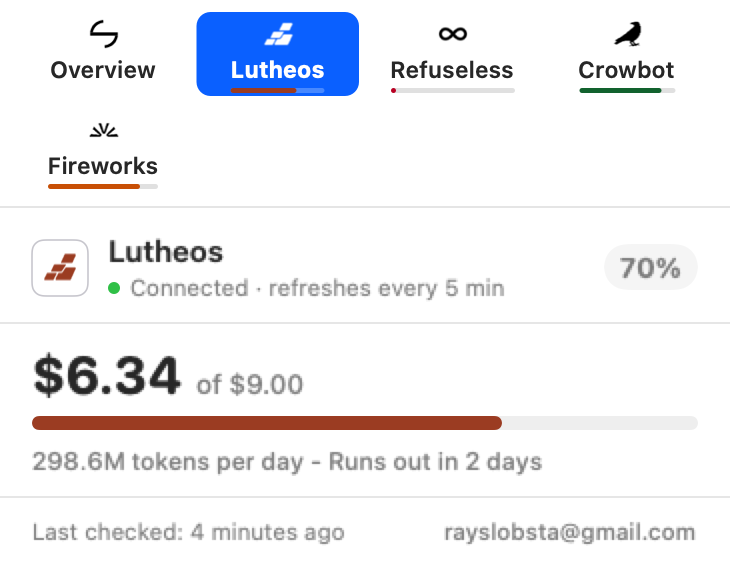
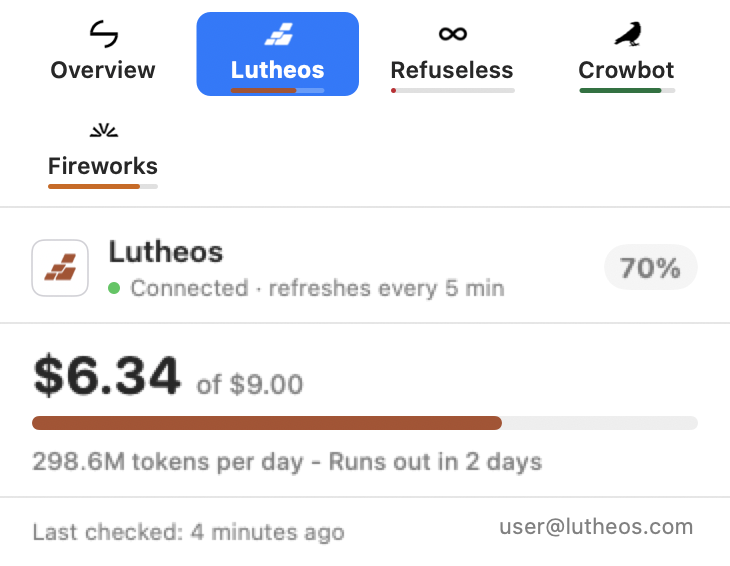
docs: streamline README with horizontal image showcases and clean privacy balance card

diff --git a/README.md b/README.md
@@ -20,7 +20,9 @@
 </p>
 
 <p align="center">
-  <img src="docs/images/overview_card.png" width="600" alt="API Bar Menu Bar Overview" style="border-radius: 12px; box-shadow: 0 8px 30px rgba(0,0,0,0.12);" />
+  <img src="docs/images/popovers_showcase.png" width="800" alt="API Bar Menu Bar Overview & Detailed Balance Card" />
+  <br />
+  <em><b>Menu Bar Experience</b>: Unified multi-provider overview (left) alongside detailed individual runway and pacing inspection (right).</em>
 </p>
 
 ---
@@ -56,28 +58,20 @@
 ## 📸 Screenshots & Visual Tour
 
 <p align="center">
-  <img src="docs/images/balance_card.png" width="560" alt="Detailed Provider Balance Card" />
+  <img src="docs/images/windows_showcase.png" width="840" alt="30-Second Setup Tour & Built-in Changelog" />
   <br />
-  <em><b>Detailed Balance Card</b>: Inspect exact remaining funds, original top-up capacity, daily token burn rate, and projected runway timeline.</em>
+  <em><b>Native macOS App Windows</b>: Guided 30-second setup tour (left) and built-in native markdown changelog with one-click updates (right).</em>
 </p>
 
+<details>
+<summary><b>⚙ View Settings & Browser Session Management</b></summary>
+<br />
 <p align="center">
-  <img src="docs/images/settings.png" width="620" alt="Settings & Session Management" />
+  <img src="docs/images/settings.png" width="560" alt="Settings & Session Management" />
   <br />
-  <em><b>Settings Pane</b>: Manage browser connections, toggle iCloud sync, adjust provider sorting, and configure custom endpoints with clean, responsive controls.</em>
+  <em><b>Settings Pane</b>: Manage browser connections, toggle iCloud sync, adjust provider sorting, and configure custom endpoints.</em>
 </p>
-
-<p align="center">
-  <img src="docs/images/onboarding.png" width="560" alt="30-Second Setup Tour" />
-  <br />
-  <em><b>30-Second Setup</b>: Pick your AI providers, connect your browser in one click, and choose between unified or individual status bar items.</em>
-</p>
-
-<p align="center">
-  <img src="docs/images/changelog.png" width="620" alt="Native Built-in Changelog" />
-  <br />
-  <em><b>In-App Changelog</b>: Browse feature updates, performance enhancements, and integration notes natively with rich markdown.</em>
-</p>
+</details>
 
 ---
 
